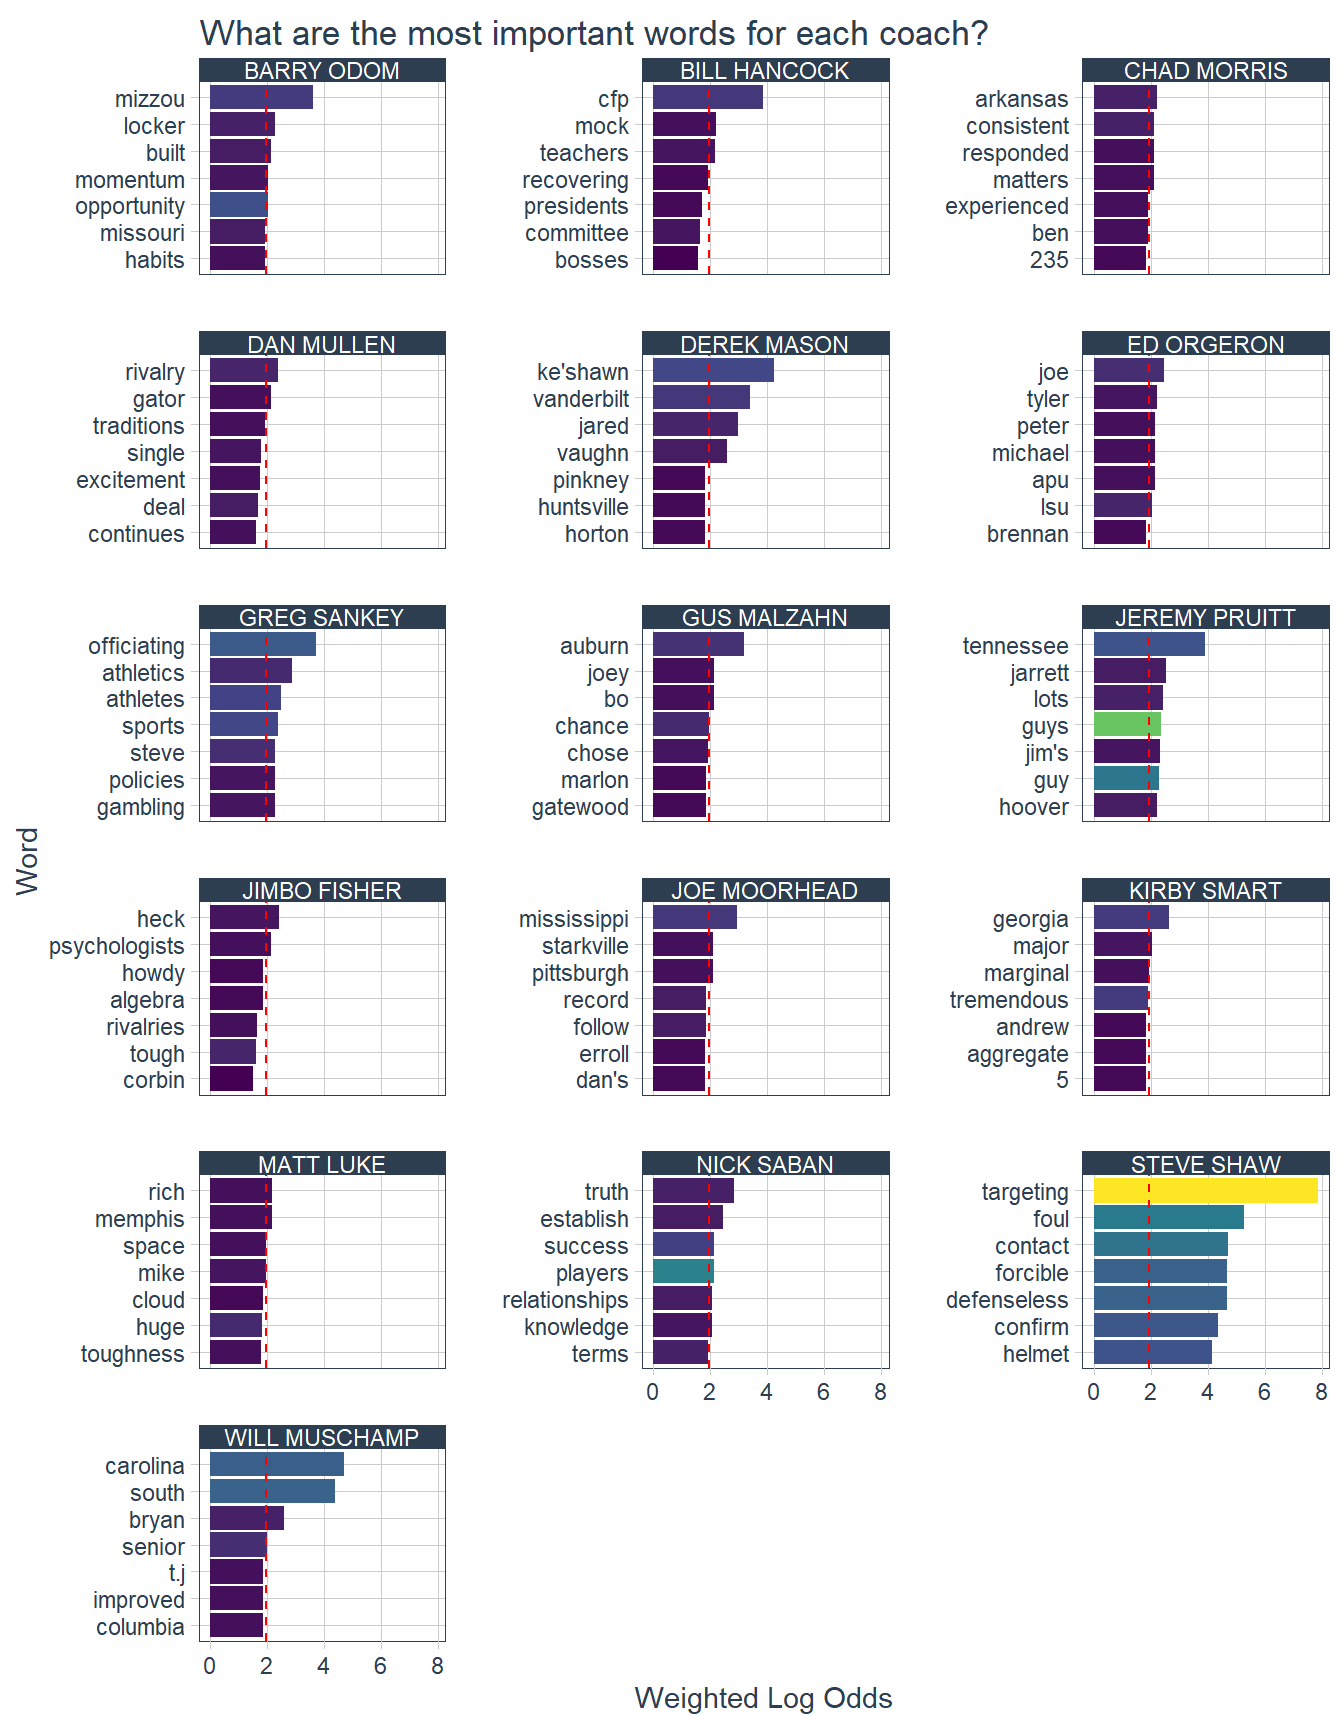
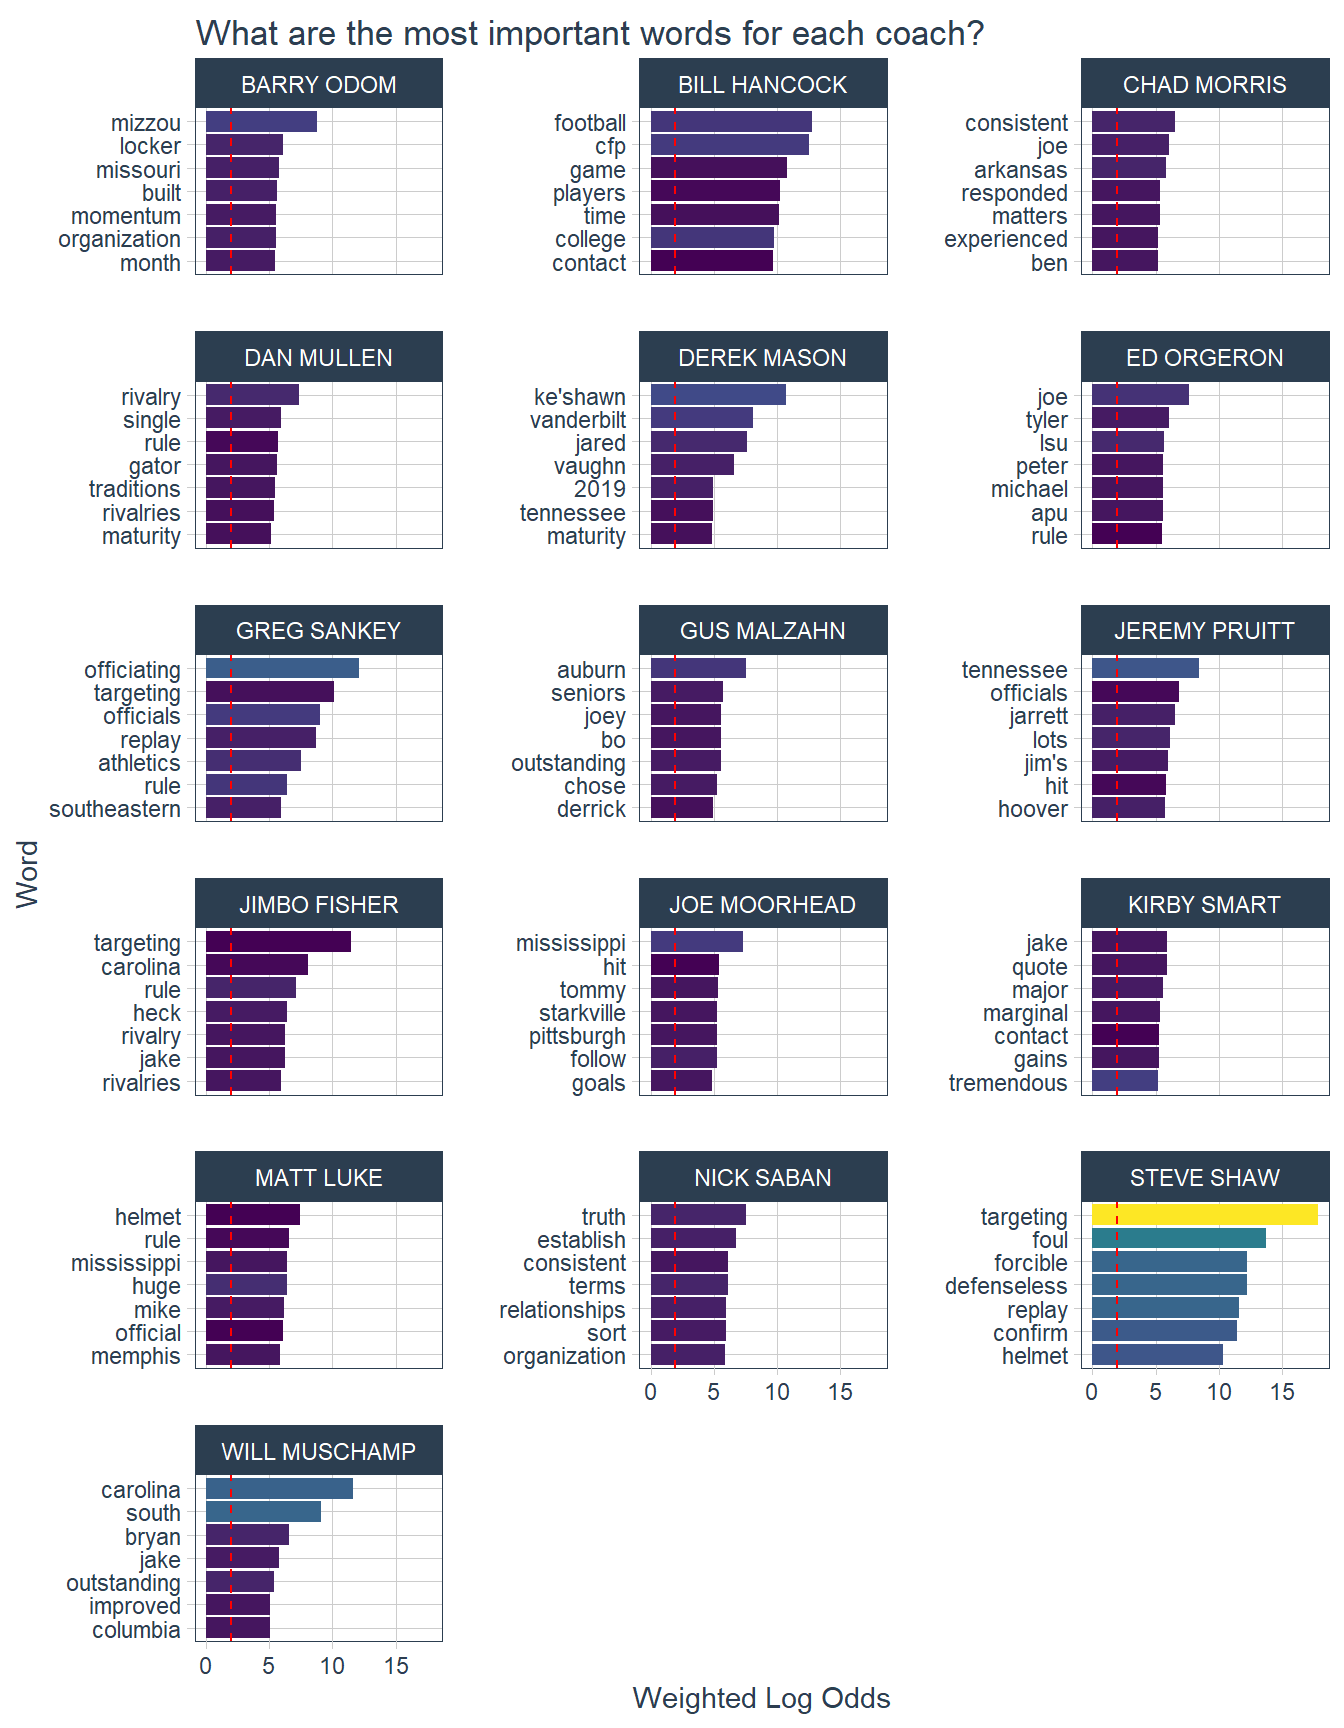
Fix bug in sec media days post

diff --git a/content/post/2019-07-25-sec-media-days-2019.html b/content/post/2019-07-25-sec-media-days-2019.html
@@ -10,21 +10,9 @@ tags:
 slug: sec-media-days-2019
 ---
 
+<script src="/rmarkdown-libs/header-attrs/header-attrs.js"></script>
 
 
-<p>```{r setup, include=FALSE}title: SEC Media Days 2019
-author: Scott Frechette
-date: ‘2019-07-25’
-categories:
-- sports
-tags:
-- R
-- football
-- text
-slug: sec-media-days-2019</p>
-<p>knitr::opts_chunk$set(echo = TRUE, message=FALSE, warning=FALSE)
-options(width = 100, dplyr.width = 100)
-```</p>
 <p>I wanted to start a blog to document my NLP journey, and as a resident of Alabama I could think of no better place to start than analyzing SEC Media Days. Every year the highest paid public officials in the Southeast meet to discuss the most important topics plaguing their respective areas and forecasting how successful they will be this year with educating and developing the youth.</p>
 <p>Actually it’s just coaches engaging in coachspeak.</p>
 <p>Because publicly posting my education feels a bit daunting I thought I’d start slow. With this post I’m trying out Julia Silge and Tyler Schnoebelen’s new <a href="https://github.com/juliasilge/tidylo">tidylo</a> package, which she described <a href="https://juliasilge.com/blog/introducing-tidylo/">here</a>. Instead of relying on the old standard TF-IDF it uses log-odds weighted by an uninformative Dirichlet prior. If those words sounded even remotely interesting you should check out the <a href="https://www.cambridge.org/core/journals/political-analysis/article/fightin-words-lexical-feature-selection-and-evaluation-for-identifying-the-content-of-political-conflict/81B3703230D21620B81EB6E2266C7A66">original paper</a>.</p>
@@ -70,18 +58,18 @@ transcripts &lt;- map_df(speaker_ids, get_transcript)
 
 transcripts</code></pre>
 <pre><code>## # A tibble: 1,031 x 2
-##    speaker    text                                                         
-##    &lt;chr&gt;      &lt;chr&gt;                                                        
-##  1 STEVE SHAW We&#39;re going to do two things today.  I know we still have pe~
-##  2 STEVE SHAW And then the second part of this is going to be interactive.~
-##  3 STEVE SHAW So, this document, and I&#39;m going to put it up here, it&#39;s als~
-##  4 STEVE SHAW Now, unfortunately not all of the activities are captured he~
-##  5 STEVE SHAW So, the first question we&#39;re going to hit today is, do you e~
-##  6 STEVE SHAW So every play in every game, just like the players, every pl~
-##  7 STEVE SHAW You can have a missed call.  It&#39;s still negative, but an inc~
-##  8 STEVE SHAW Many times there&#39;s plays with comment only to give feedback ~
-##  9 STEVE SHAW The grading then goes that position specialist to validate i~
-## 10 STEVE SHAW So that&#39;s the accountability on a weekly basis, but then if ~
+##    speaker    text                                                                                  
+##    &lt;chr&gt;      &lt;chr&gt;                                                                                 
+##  1 STEVE SHAW We&#39;re going to do two things today.  I know we still have people coming in, but we&#39;re~
+##  2 STEVE SHAW And then the second part of this is going to be interactive.  Hopefully you have -- i~
+##  3 STEVE SHAW So, this document, and I&#39;m going to put it up here, it&#39;s also on the board, was reall~
+##  4 STEVE SHAW Now, unfortunately not all of the activities are captured here, but the majority of t~
+##  5 STEVE SHAW So, the first question we&#39;re going to hit today is, do you evaluate these guys?  Is t~
+##  6 STEVE SHAW So every play in every game, just like the players, every play in every game is grade~
+##  7 STEVE SHAW You can have a missed call.  It&#39;s still negative, but an incorrect -- when you put yo~
+##  8 STEVE SHAW Many times there&#39;s plays with comment only to give feedback to the officials, so they~
+##  9 STEVE SHAW The grading then goes that position specialist to validate it for that specific posit~
+## 10 STEVE SHAW So that&#39;s the accountability on a weekly basis, but then if you flip the document to ~
 ## # ... with 1,021 more rows</code></pre>
 </div>
 <div id="tokens" class="section level2">
@@ -93,33 +81,33 @@ transcripts</code></pre>
   count(speaker, word) %&gt;% 
   filter(!str_detect(speaker, &quot;COMMISSIONER|MODERATOR|Q$&quot;)) %&gt;% 
   bind_log_odds(speaker, word, n) %&gt;% 
-  arrange(-log_odds)
+  arrange(-log_odds_weighted)
 
 transcript_tokens</code></pre>
 <pre><code>## # A tibble: 8,586 x 4
-##    speaker       word            n log_odds
-##    &lt;chr&gt;         &lt;chr&gt;       &lt;int&gt;    &lt;dbl&gt;
-##  1 STEVE SHAW    targeting      68     7.85
-##  2 STEVE SHAW    foul           29     5.27
-##  3 STEVE SHAW    contact        27     4.72
-##  4 WILL MUSCHAMP carolina       22     4.70
-##  5 STEVE SHAW    defenseless    23     4.69
-##  6 STEVE SHAW    forcible       23     4.69
-##  7 WILL MUSCHAMP south          23     4.40
-##  8 STEVE SHAW    confirm        20     4.37
-##  9 DEREK MASON   ke&#39;shawn       16     4.22
-## 10 STEVE SHAW    helmet         19     4.15
+##    speaker       word            n log_odds_weighted
+##    &lt;chr&gt;         &lt;chr&gt;       &lt;int&gt;             &lt;dbl&gt;
+##  1 STEVE SHAW    targeting      68              17.8
+##  2 STEVE SHAW    foul           29              13.7
+##  3 BILL HANCOCK  football       11              12.7
+##  4 BILL HANCOCK  cfp            12              12.5
+##  5 STEVE SHAW    defenseless    23              12.2
+##  6 STEVE SHAW    forcible       23              12.2
+##  7 GREG SANKEY   officiating    21              12.1
+##  8 WILL MUSCHAMP carolina       22              11.6
+##  9 STEVE SHAW    replay         23              11.6
+## 10 JIMBO FISHER  targeting       1              11.5
 ## # ... with 8,576 more rows</code></pre>
 <p>Cool. Let’s check this out in a plot. Based on <a href="https://medium.com/@TSchnoebelen/i-dare-say-you-will-never-use-tf-idf-again-4918408b2310">Tyler’s</a> suggestion we would typically filter for terms with log odds above 1.96 so we were confident they were unique to the coach. But we have such little text for each coach that I chose to just display significance with a dashed red line instead. I’m also choosing to fill how many times the coach uttered a particular word to give a sense of frequency vs importance.</p>
 <pre class="r"><code>transcript_tokens %&gt;% 
   group_by(speaker) %&gt;% 
   slice(1:7) %&gt;% 
   ungroup() %&gt;% 
-  mutate(word = reorder_within(word, log_odds, speaker)) %&gt;% 
-  ggplot(aes(word, log_odds, fill = n)) + 
+  mutate(word = reorder_within(word, log_odds_weighted, speaker)) %&gt;% 
+  ggplot(aes(word, log_odds_weighted, fill = n)) + 
   geom_col() + 
   geom_hline(yintercept = 1.96, linetype = 2, color = &quot;red&quot;) + 
-  scale_fill_viridis_c(guide = F) + 
+  scale_fill_viridis_c(guide = &quot;none&quot;) + 
   coord_flip() + 
   scale_x_reordered() + 
   facet_wrap(~ speaker, scales = &quot;free_y&quot;, ncol = 3) + 
@@ -143,33 +131,33 @@ transcript_tokens</code></pre>
   count(speaker, bigram) %&gt;% 
   filter(!str_detect(speaker, &quot;COMMISSIONER|MODERATOR|Q$&quot;)) %&gt;% 
   bind_log_odds(speaker, bigram, n) %&gt;% 
-  arrange(-log_odds)
+  arrange(-log_odds_weighted)
 
 transcript_bigrams</code></pre>
-<pre><code>## # A tibble: 3,936 x 4
-##    speaker       bigram                 n log_odds
-##    &lt;chr&gt;         &lt;chr&gt;              &lt;int&gt;    &lt;dbl&gt;
-##  1 STEVE SHAW    forcible contact      23     4.82
-##  2 WILL MUSCHAMP south carolina        22     4.63
-##  3 STEVE SHAW    defenseless player    18     4.26
-##  4 STEVE SHAW    15 yard                8     2.83
-##  5 STEVE SHAW    targeting foul         8     2.83
-##  6 STEVE SHAW    yard penalty           8     2.83
-##  7 GUS MALZAHN   playing fast           6     2.62
-##  8 DEREK MASON   ke&#39;shawn vaughn        6     2.55
-##  9 STEVE SHAW    replay official        6     2.45
-## 10 STEVE SHAW    rules committee        6     2.45
-## # ... with 3,926 more rows</code></pre>
+<pre><code>## # A tibble: 3,860 x 4
+##    speaker       bigram                 n log_odds_weighted
+##    &lt;chr&gt;         &lt;chr&gt;              &lt;int&gt;             &lt;dbl&gt;
+##  1 STEVE SHAW    forcible contact      23             11.9 
+##  2 BILL HANCOCK  college football       8             11.7 
+##  3 WILL MUSCHAMP south carolina        22             10.7 
+##  4 STEVE SHAW    defenseless player    18             10.5 
+##  5 JIMBO FISHER  south carolina         2              9.74
+##  6 BILL HANCOCK  media days             3              7.95
+##  7 MATT LUKE     football team          3              7.32
+##  8 GUS MALZAHN   playing fast           6              6.98
+##  9 STEVE SHAW    15 yard                8              6.93
+## 10 STEVE SHAW    targeting foul         8              6.93
+## # ... with 3,850 more rows</code></pre>
 <p>How do these look?</p>
 <pre class="r"><code>transcript_bigrams %&gt;% 
   group_by(speaker) %&gt;%
   slice(1:7) %&gt;% 
   ungroup() %&gt;%
-  mutate(bigram = reorder_within(bigram, log_odds, speaker)) %&gt;% 
-  ggplot(aes(bigram, log_odds, fill = n)) + 
+  mutate(bigram = reorder_within(bigram, log_odds_weighted, speaker)) %&gt;% 
+  ggplot(aes(bigram, log_odds_weighted, fill = n)) + 
   geom_col() + 
   geom_hline(yintercept = 1.96, linetype = 2, color = &quot;red&quot;) +
-  scale_fill_viridis_c(guide = F) + 
+  scale_fill_viridis_c(guide = &quot;none&quot;) + 
   coord_flip() + 
   scale_x_reordered() + 
   facet_wrap(~ speaker, ncol = 3, scales = &quot;free_y&quot;) + 
